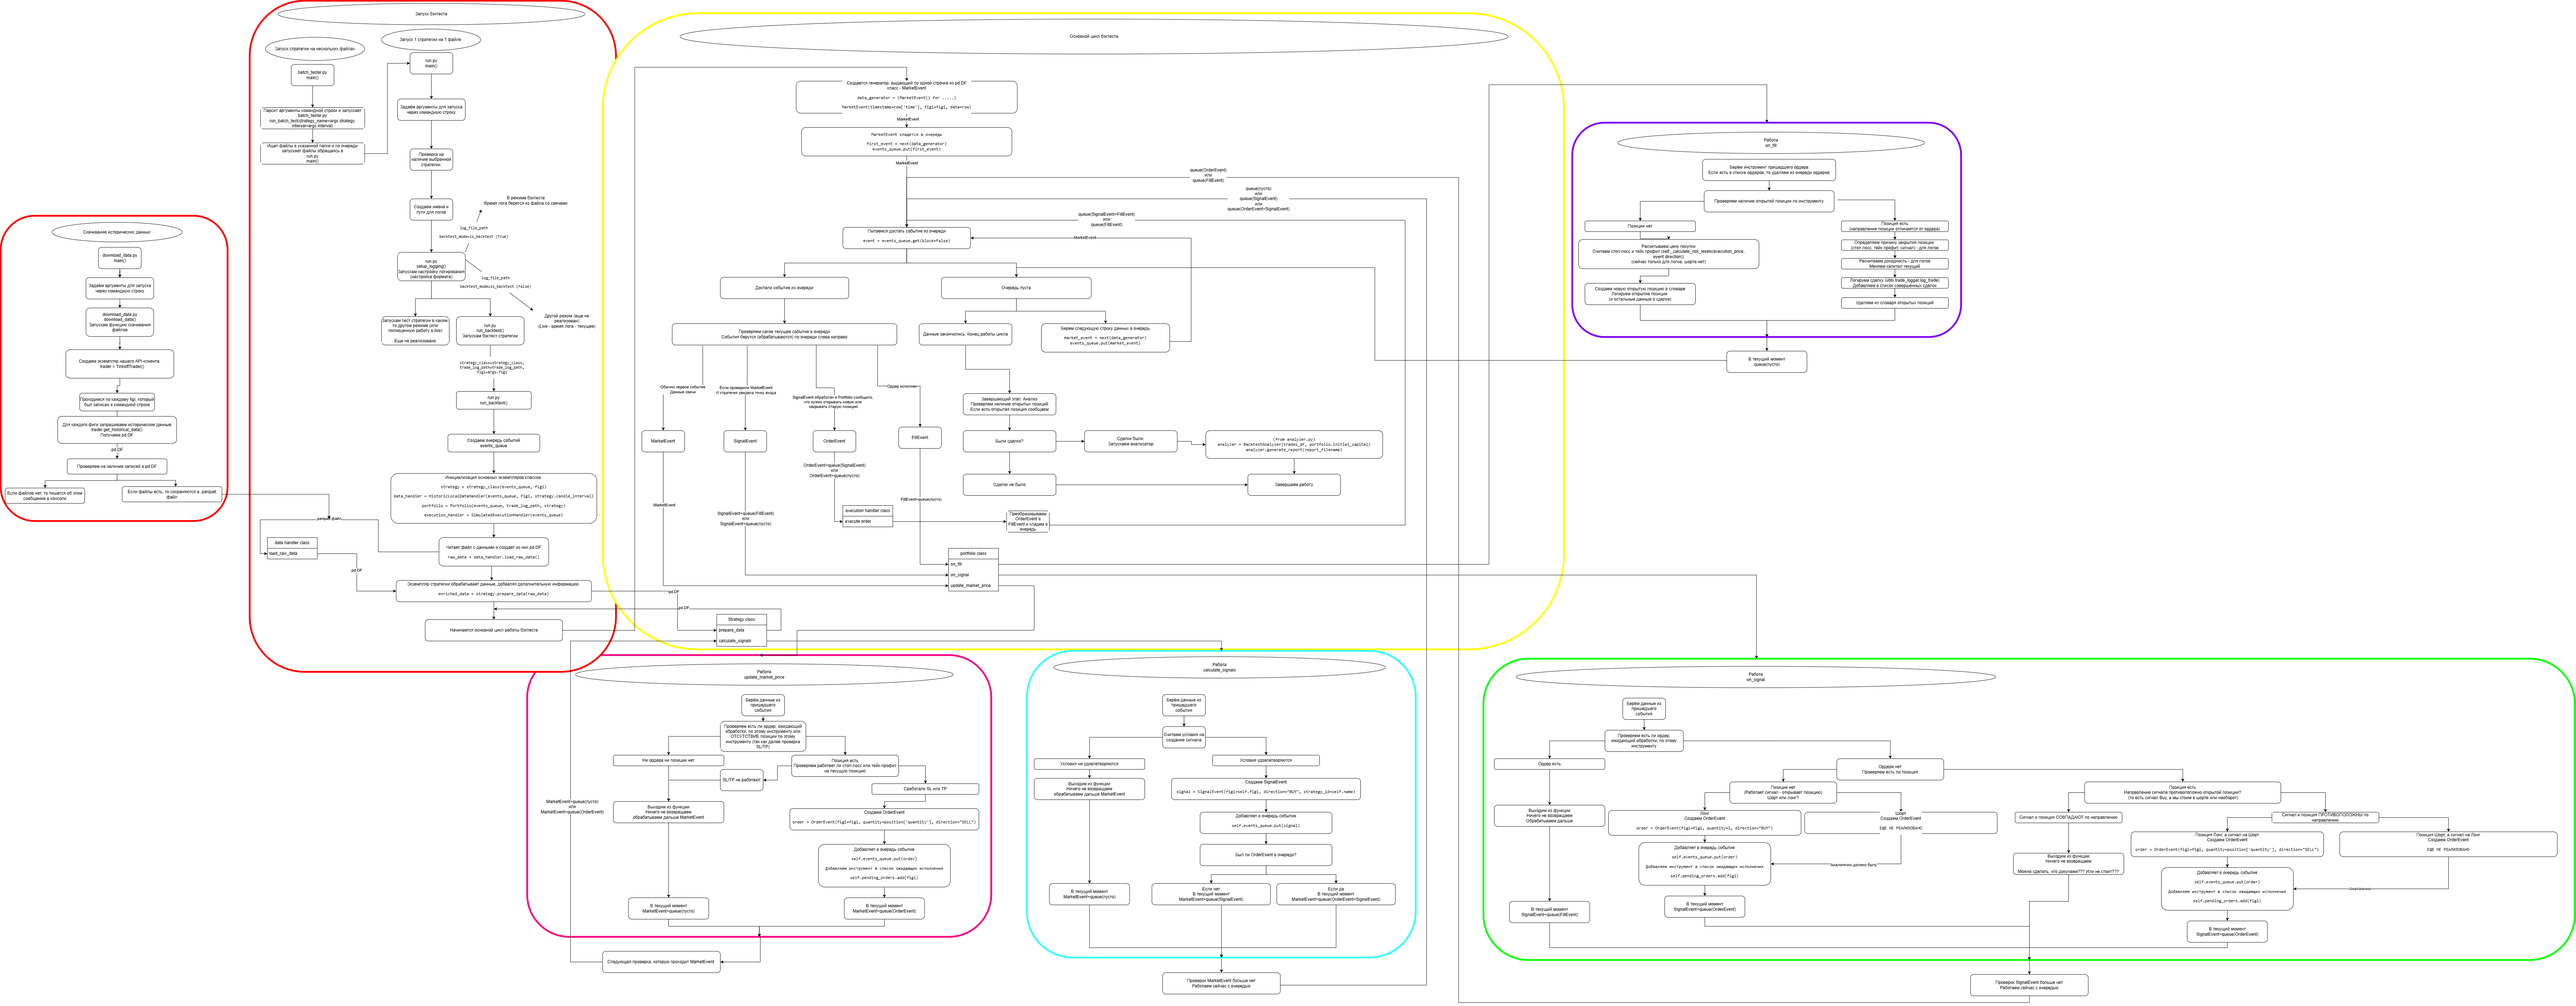
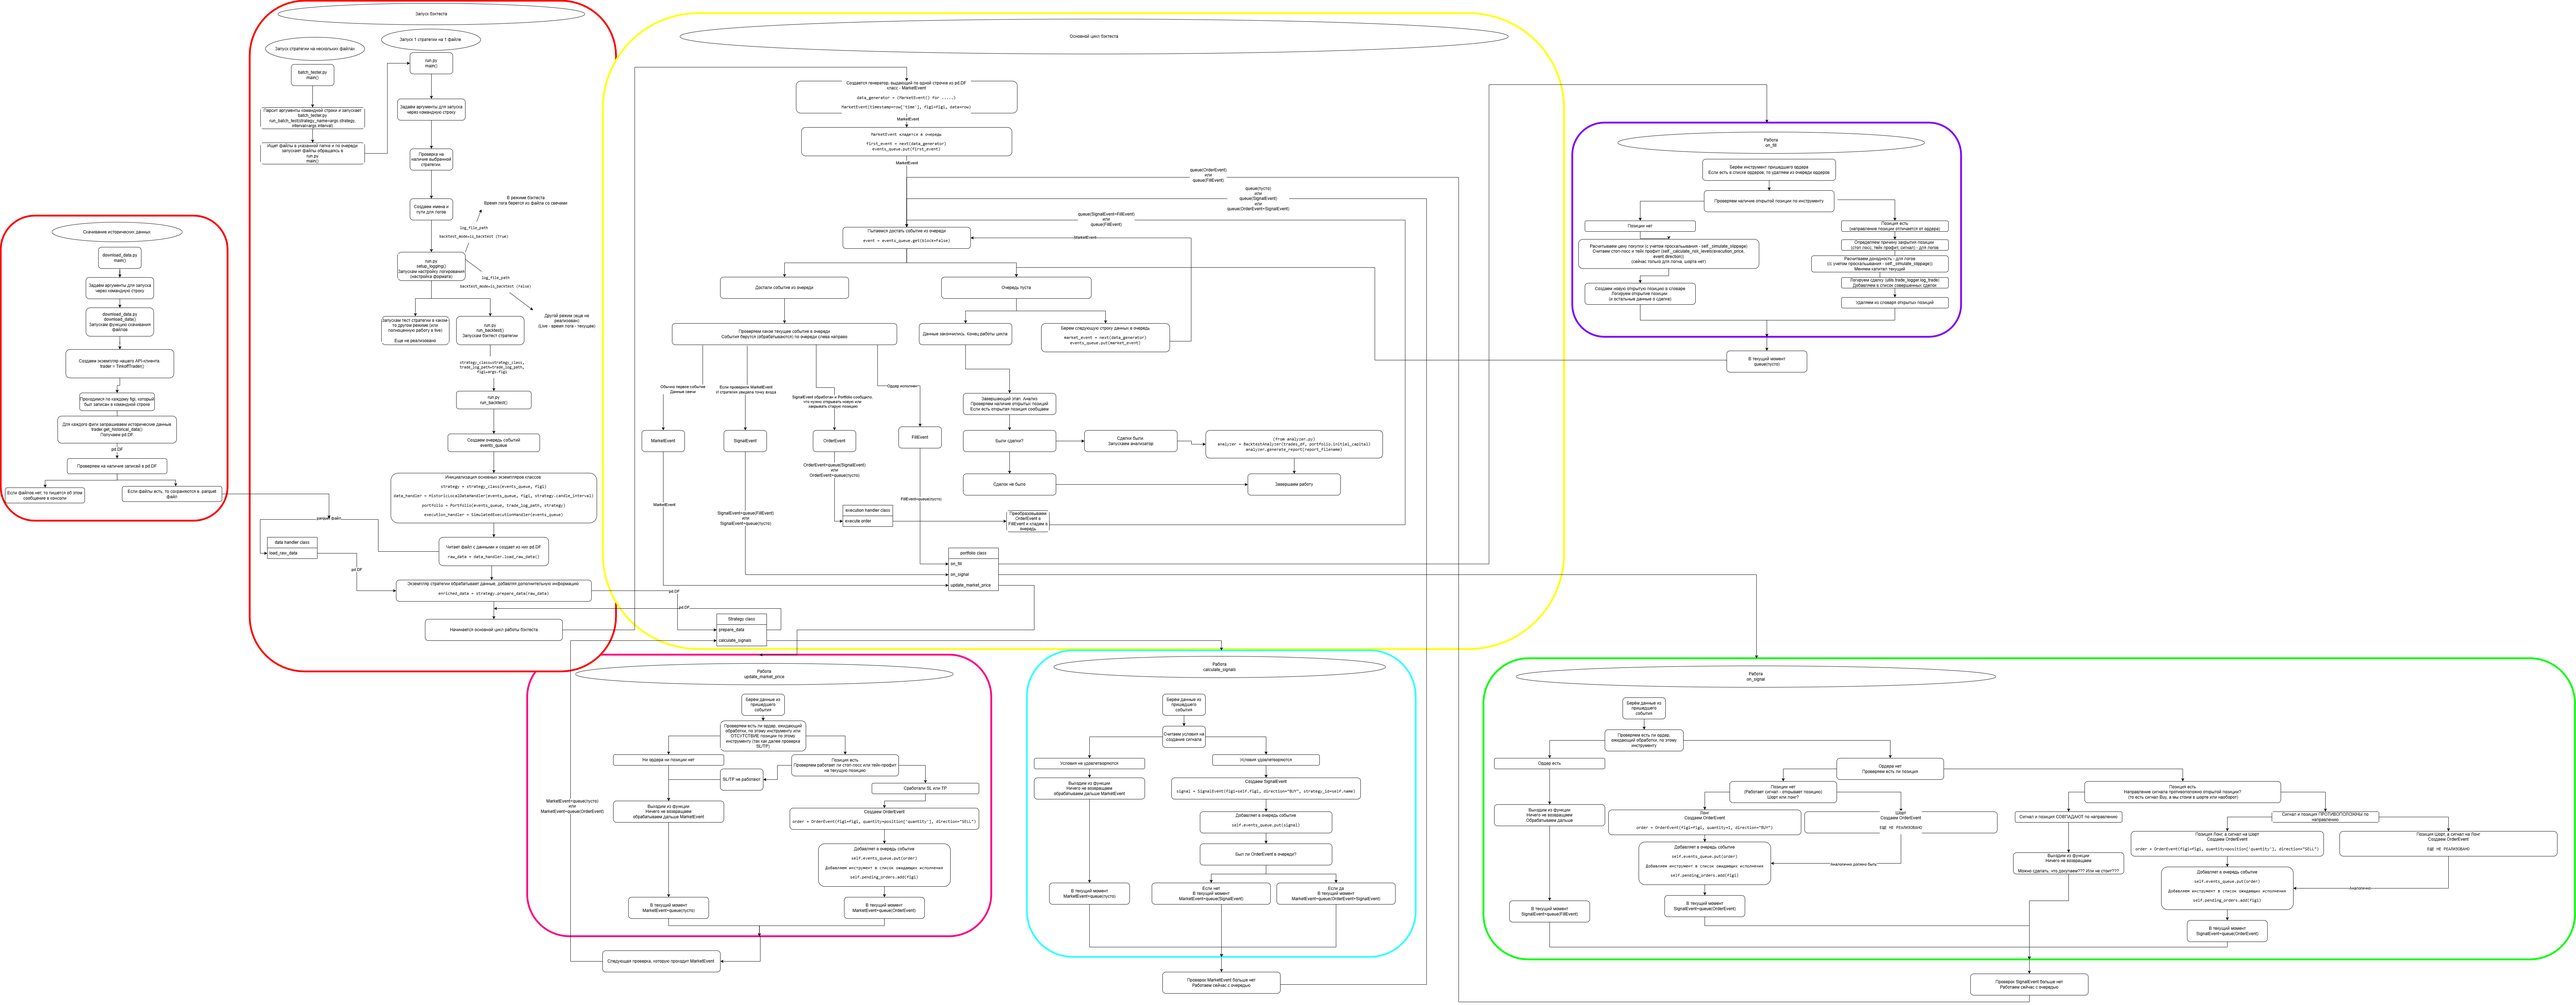
feat: Добавлено проскальзывание

diff --git a/core/portfolio.py b/core/portfolio.py
@@ -4,6 +4,7 @@ import logging
 from core.event import MarketEvent, SignalEvent, OrderEvent, FillEvent
 from utils.trade_logger import log_trade
 from strategies.base_strategy import BaseStrategy
+from config import BACKTEST_CONFIG
 
 class Portfolio:
     """
@@ -17,6 +18,10 @@ class Portfolio:
         self.initial_capital = initial_capital  # Начальный капитал для бэктеста
         self.current_capital = initial_capital  # Текущий капитал, изменяется после каждой сделки
         self.commission_rate = commission_rate  # Размер комиссии в долях Ex:(0.0005 = 0.05%)
+
+        self.slippage_config = BACKTEST_CONFIG.get("SLIPPAGE_CONFIG", {"ENABLED": False})
+        self.slippage_enabled = self.slippage_config.get("ENABLED", False)
+        self.impact_coefficient = self.slippage_config.get("IMPACT_COEFFICIENT", 0.1)
 
         # Словарь для хранения всех активных позиций. Ключ - FIGI, значение - словарь с деталями позиции.
         self.current_positions = {}
@@ -41,6 +46,28 @@ class Portfolio:
             take_profit_price = entry_price * (1 - tp_percent)
 
         return {"stop_loss": stop_loss_price, "take_profit": take_profit_price}
+
+    def _simulate_slippage(self, ideal_price: float, quantity: int, direction: str, candle_volume: int) -> float:
+        """
+        Симулирует проскальзывание цены исполнения на основе объема.
+        """
+        # Если модель проскальзывания отключена или объем на свече нулевой, возвращаем идеальную цену.
+        if not self.slippage_enabled or candle_volume == 0:
+            return ideal_price
+
+        # Рассчитываем долю нашей сделки в общем объеме свечи
+        volume_ratio = quantity / candle_volume
+
+        # Модель "квадратного корня" (Проскальзывание = Coeff * (Объем_сделки / Объем_на_свече) ^ 0.5)
+        slippage_percent = self.impact_coefficient * (volume_ratio ** 0.5)
+
+        # Применяем проскальзывание. Цена всегда двигается "против нас".
+        if direction == 'BUY':
+            # При покупке цена становится ВЫШЕ
+            return ideal_price * (1 + slippage_percent)
+        else:  # Для SELL
+            # При продаже цена становится НИЖЕ
+            return ideal_price * (1 - slippage_percent)
 
     def update_market_price(self, event: MarketEvent):
         """
@@ -175,9 +202,16 @@ class Portfolio:
         
         # --- Сценарий 1: Открытие НОВОЙ позиции ---
         if not position: # Так как в position нет текущего figi
-            # Допущение, что цена исполнения равна цене открытия свечи, на которой пришел сигнал.
-            # ToDo: нет проскальзывания и т.п. Хоть бы рандом прикрутить на десятую долю процента
-            execution_price = last_candle['open']
+            ideal_price = last_candle['open']
+            candle_volume = last_candle['volume']
+
+            # --- ИЗМЕНЕНИЕ: Рассчитываем цену с учетом проскальзывания ---
+            execution_price = self._simulate_slippage(
+                ideal_price=ideal_price,
+                quantity=event.quantity,
+                direction=event.direction,
+                candle_volume=candle_volume
+            )
 
             # Получаем параметры риска из объекта стратегии и переводим их из процентов в доли.
             risk_levels = self._calculate_risk_levels(execution_price, event.direction)
@@ -203,22 +237,30 @@ class Portfolio:
         elif event.direction != position['direction']:
 
             entry_price = position['entry_price']
+            candle_volume = last_candle['volume']
 
-            # ToDo: нет проскальзывания и т.п. Хоть бы рандом прикрутить на десятую долю процента
             # Определяем цену в зависимости от причины выхода
             if position.get('exit_reason') == "Stop Loss":
                 # Если позиция закрывается по стопу, цена выхода равна уровню стопа
-                exit_price = position['stop_loss']
+                ideal_exit_price = position['stop_loss']
                 exit_reason = "Stop Loss"
             elif position.get('exit_reason') == "Take Profit":
                 # Если по тейку - то цена равна уровню тейка
-                exit_price = position['take_profit']
+                ideal_exit_price = position['take_profit']
                 exit_reason = "Take Profit"
             else: # Закрытие по сигналу от стратегии
                 # Если причина не указана, значит, это закрытие по сигналу от стратегии.
                 # Цена выхода - цена открытия текущей свечи.
-                exit_price = last_candle['open']
+                ideal_exit_price = last_candle['open']
                 exit_reason = "Signal"
+
+            # Рассчитываем цену выхода с учетом проскальзывания ---
+            exit_price = self._simulate_slippage(
+                ideal_price=ideal_exit_price,
+                quantity=event.quantity,
+                direction=event.direction,
+                candle_volume=candle_volume
+            )
 
             # Рассчитываем комиссию за вход и выход
             commission = (entry_price * event.quantity + exit_price * event.quantity) * self.commission_rate

diff --git a/config.py b/config.py
@@ -28,6 +28,13 @@ DATA_LOADER_CONFIG = {
 BACKTEST_CONFIG = {
     "INITIAL_CAPITAL": 100000.0,  # Начальный капитал
     "COMMISSION_RATE": 0.0005,  # Размер комиссии в долях (0.05%)
+    # Настройки симуляции проскальзывания ---
+    "SLIPPAGE_CONFIG": {
+        "ENABLED": True,
+        # Коэффициент влияния на цену. Чем он больше, тем сильнее проскальзывание.
+        # Подбирается эмпирически. 0.1 - умеренное влияние.
+        "IMPACT_COEFFICIENT": 0.1,
+    },
 }
 
 # --- 3. НАСТРОЙКИ КОНКРЕТНЫХ СТРАТЕГИЙ ---
